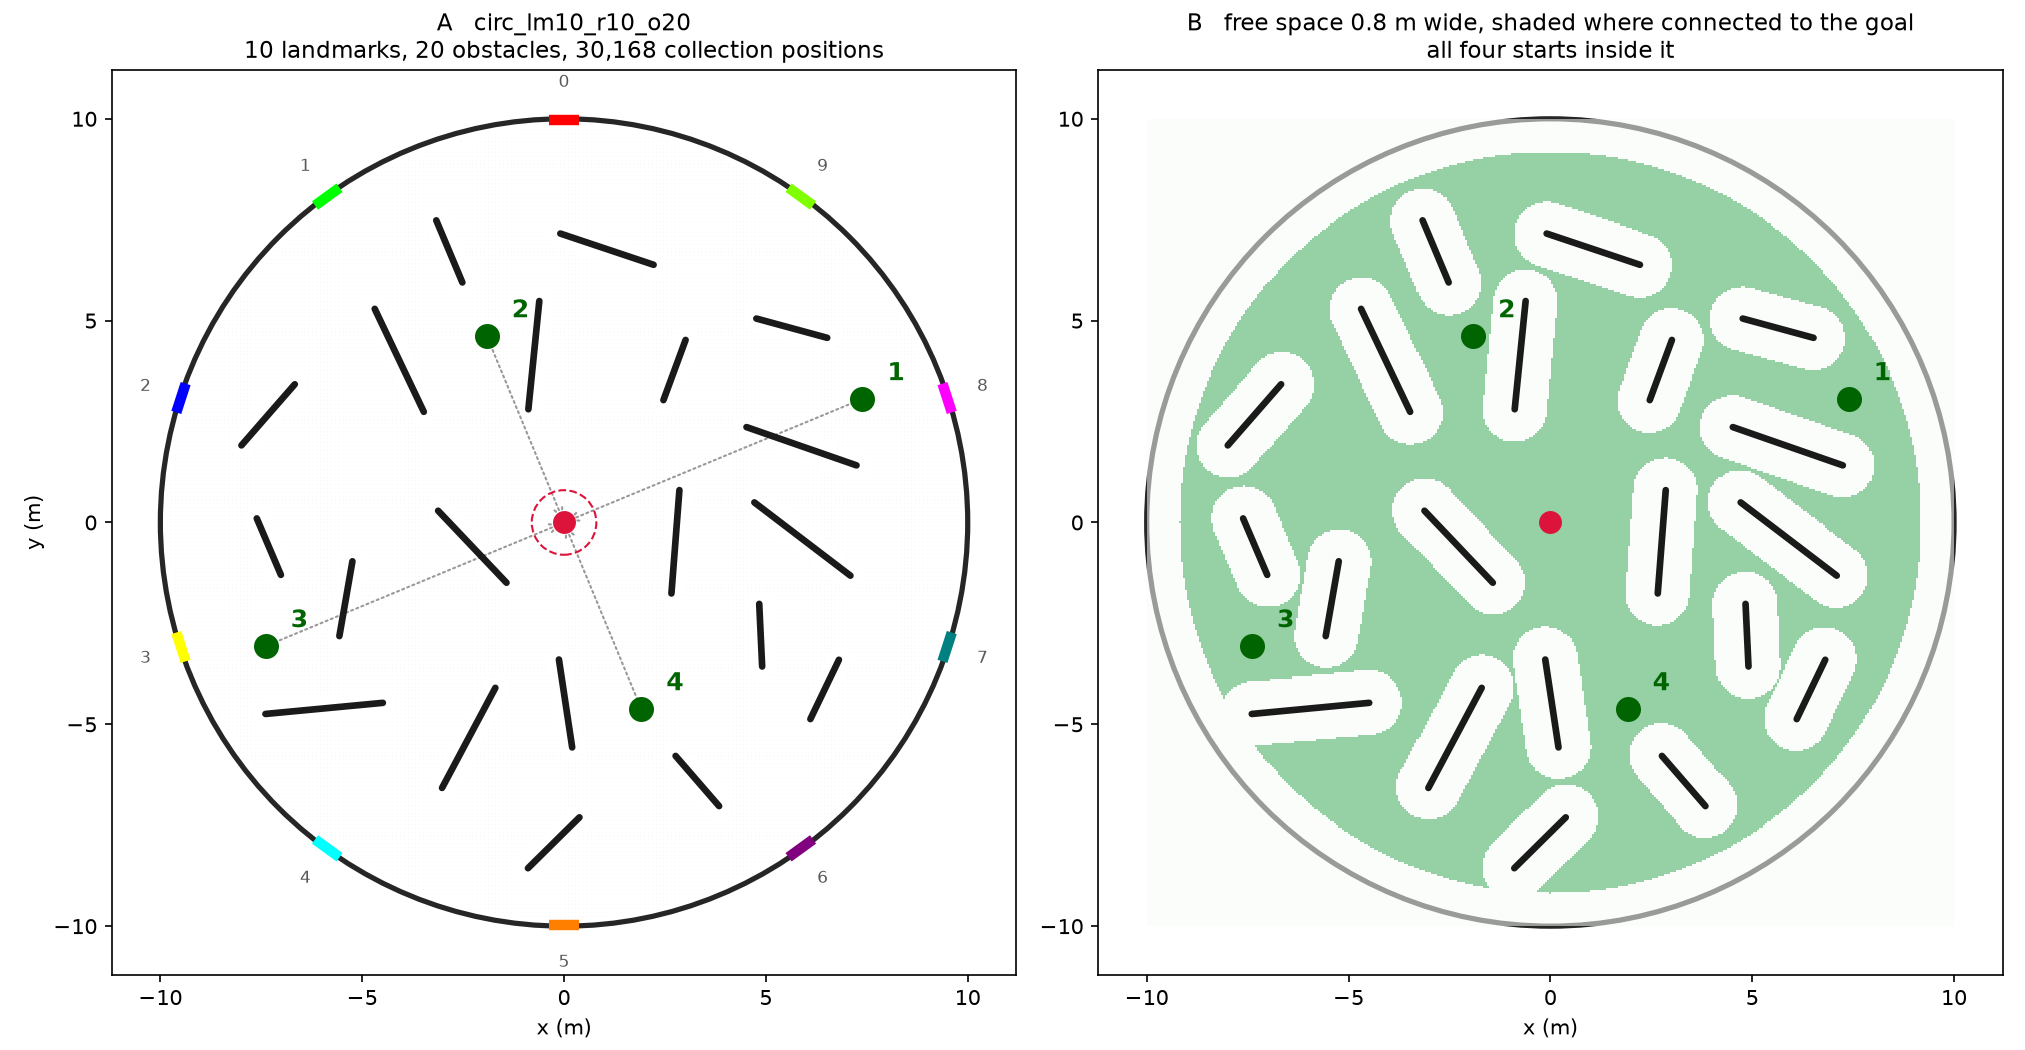
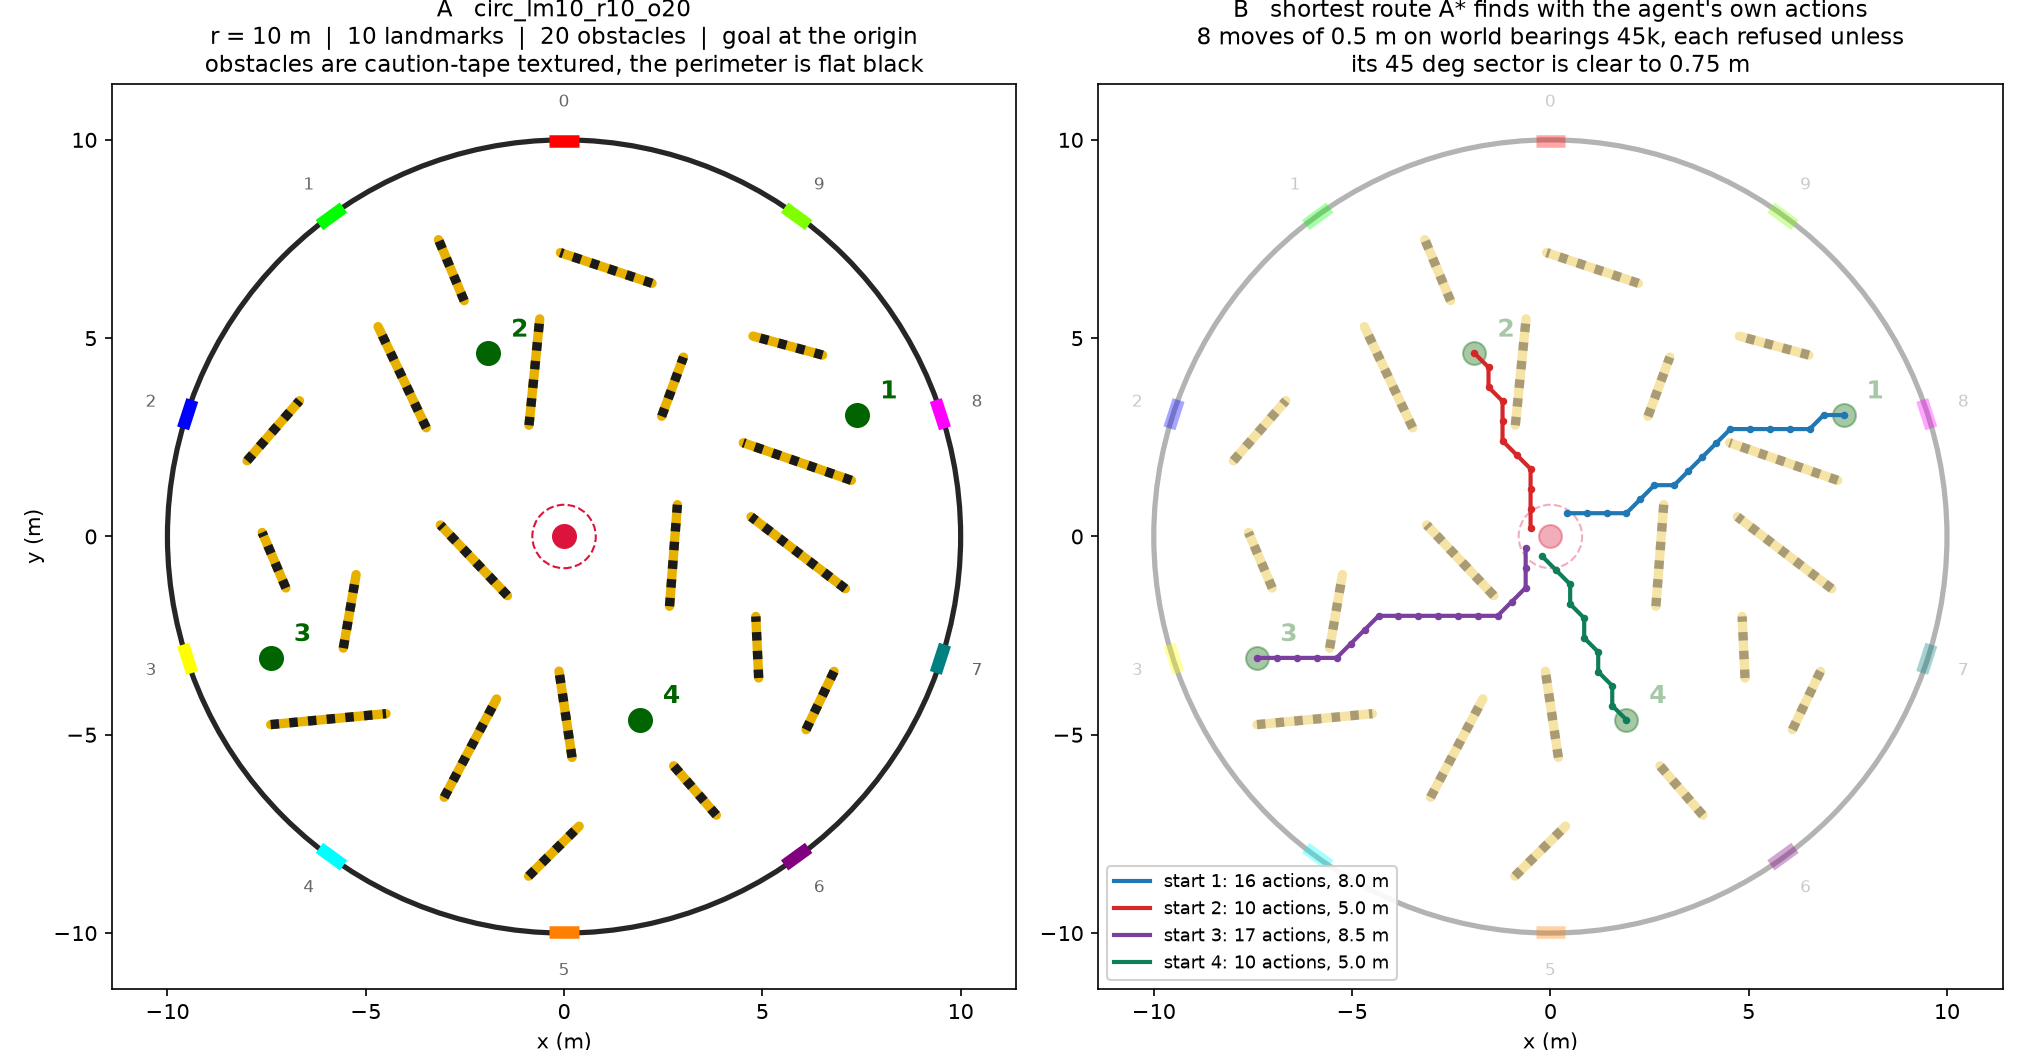
arena: caution tape on the obstacles, and A* over the real action set
Three changes to circ_lm10_r10_o20, none of which move an obstacle: the
layout and the position grid are byte-identical to the pushed ones.

OBSTACLES ARE TEXTURED with caution_tape.jpg; the perimeter stays flat
black. They are different kinds of thing -- one bounds the arena, the other
furnishes it -- and the agent sees through a camera, so telling them apart
is a distinction the representation can actually use. The wall PROTO already
took a texture URL; nothing but the XML changed.

THE FIGURE is down to what it is about. Panel A is the arena and only the
arena: wall, obstacles, landmarks, goal, starts. The 30k collection
positions, the dotted start-to-goal lines and the flood-fill shading are
gone -- the fill was a proof, and a proof belongs in the acceptance check
rather than in the picture.

PANEL B IS A*, over the agent's actions rather than over free space. The
difference is not cosmetic. The mask is a SECTOR test: get_possible_actions
refuses action k when anything lies within 0.75 m in the 45-degree wedge on
bearing 45k, so a robot 0.3 m from an obstacle still moves freely in six
directions, which a clearance test would call blocked outright. Searching
over clearance finds routes the agent cannot take and misses routes it can.
Nodes are exact positions reached by summing whole actions, so every point
on a drawn route is one the agent could stand on; only the visited set is
discretised, at 5 cm, because the eight bearings generate a set dense in the
[…]

diff --git a/simulation/worlds/environments/vpce-rl/make_rl_env.py b/simulation/worlds/environments/vpce-rl/make_rl_env.py
@@ -76,7 +76,12 @@ N_TARGET    = 30147     # positions per arena, held constant
 # the camera at 0.188 m, both well under 0.5 m.
 OBS_H       = 0.5
 OBS_W       = 0.012
-OBS_RGB     = (0.0, 0.0, 0.0)
+# Obstacles are textured, the perimeter is flat black. They are different
+# kinds of thing -- one bounds the arena, the other furnishes it -- and the
+# agent sees through a camera, so telling them apart is something the
+# representation can actually learn from. The wall PROTO takes a texture URL
+# relative to the world file, as the landmark flags do.
+OBS_TEXTURE = '../protos/world_objects/textures/wall_textures/caution_tape.jpg'
 OBS_LEN     = (1.5, 3.0)    # segment length range, m
 OBS_MARGIN  = 0.3           # collection keep-out from an obstacle, m
 
@@ -335,13 +340,14 @@ def write_xml(segs, start_xy, path):
         f'         orientations, centres uniform over the disc. Every pair is at\n'
         f'         least {GAP} m apart and every tip at least {WALL_GAP} m from the wall,\n'
         f'         so no two of them form a gap narrower than the {CLEAR} m the action\n'
-        f'         mask needs to enter it. -->\n')
+        f'         mask needs to enter it. They are textured rather than flat black,\n'
+        f'         so the camera can tell furniture from the perimeter. -->\n')
     for s in segs:
         lines.append(
             f'    <wall x1="{fmt(s[0],4)}" y1="{fmt(s[1],4)}" '
             f'x2="{fmt(s[2],4)}" y2="{fmt(s[3],4)}"\n'
-            f'          height="{OBS_H}" width="{OBS_W}" '
-            f'red="{OBS_RGB[0]:.2f}" green="{OBS_RGB[1]:.2f}" blue="{OBS_RGB[2]:.2f}"/>\n')
+            f'          height="{OBS_H}" width="{OBS_W}"\n'
+            f'          texture="{OBS_TEXTURE}"/>\n')
 
     lines.append(
         '\n    <!-- Four starts at 22.5 + 90k degrees, alternating r = 8 and r = 5 so\n'
@@ -406,70 +412,217 @@ def write_positions(segs, path):
     return (xs, ys), spacing, free_area
 
 
-def plot(segs, start_xy, comp, xs, ys, grid_xy, path):
-    import matplotlib
-    matplotlib.use('Agg')
-    import matplotlib.pyplot as plt
+
+# --------------------------------------------------------------------- A*
+
+# The agent's action set, as MyRobot defines it: action k moves one action
+# length along WORLD bearing 45k. Allocentric, so the bearings do not depend
+# on which way the robot faces.
+ACTION_LENGTH  = 0.5
+N_ACTIONS      = 8
+ACTION_BEARING = np.arange(N_ACTIONS) * (2 * np.pi / N_ACTIONS)
+# get_possible_actions refuses an action unless the whole 45-degree sector
+# ahead of it is clear to action_length + 0.25.
+MASK_RANGE     = ACTION_LENGTH + 0.25
+KEY_RES        = 0.05       # two positions this close are one search node
+
+
+def blocked_field(segs):
+    """blocked[k, i, j]: action k refused by the lidar mask at that cell.
+
+    This reimplements get_possible_actions rather than testing clearance,
+    because the two differ in a way that changes the answer. The mask is a
+    SECTOR test: action k is refused when anything lies within 0.75 m inside
+    the 45-degree wedge centred on bearing 45k. So a robot 0.3 m from an
+    obstacle still moves freely in six directions, which a clearance test
+    would call blocked outright. Searching over clearance would find routes
+    the agent cannot take and miss routes it can.
+    """
+    n = int(np.ceil(2 * RADIUS / RES)) + 1
+    xs = np.linspace(-RADIUS, RADIUS, n)
+    ys = np.linspace(-RADIUS, RADIUS, n)
+    blocked = np.zeros((N_ACTIONS, n, n), dtype=bool)
+
+    # Everything the lidar would return a range for: obstacles and perimeter.
+    pts = []
+    for sg in segs:
+        length = float(np.hypot(sg[2] - sg[0], sg[3] - sg[1]))
+        t = np.linspace(0.0, 1.0, max(2, int(length / 0.02)))
+        pts.append(np.stack([sg[0] + t * (sg[2] - sg[0]),
+                             sg[1] + t * (sg[3] - sg[1])], axis=1))
+    wt = np.linspace(0.0, 2 * np.pi, int(2 * np.pi * RADIUS / 0.02),
+                     endpoint=False)
+    pts.append(np.stack([RADIUS * np.cos(wt), RADIUS * np.sin(wt)], axis=1))
+    pts = np.concatenate(pts)
+
+    half = int(np.ceil(MASK_RANGE / RES))
+    for px, py in pts:
+        ci = int(round((px + RADIUS) / RES))
+        cj = int(round((py + RADIUS) / RES))
+        i0, i1 = max(0, ci - half), min(n, ci + half + 1)
+        j0, j1 = max(0, cj - half), min(n, cj + half + 1)
+        if i0 >= i1 or j0 >= j1:
+            continue
+        dx = px - xs[i0:i1][:, None]
+        dy = py - ys[j0:j1][None, :]
+        within = (dx * dx + dy * dy) <= MASK_RANGE ** 2
+        if not within.any():
+            continue
+        # Which 45-degree bin the obstacle point falls in, seen from the cell.
+        k = np.rint(np.arctan2(dy, dx) / (2 * np.pi / N_ACTIONS))
+        k = (k.astype(int) % N_ACTIONS) * np.ones_like(within, dtype=int)
+        for a in range(N_ACTIONS):
+            sel = within & (k == a)
+            if sel.any():
+                blocked[a, i0:i1, j0:j1] |= sel
+    return blocked, xs, ys
+
+
+def astar(start, blocked, goal=GOAL, cap=400_000):
+    """Fewest of the agent's own actions from start to the goal.
+
+    Nodes are exact positions, reached by summing whole actions, so every
+    point on the returned path is one the agent could actually stand on.
+    Only the visited set is discretised, at KEY_RES: the 8 action bearings
+    generate a set that is dense in the plane, so without that the search
+    would never close. Two positions within 5 cm are treated as the same
+    state, which can cost a step of optimality and cannot produce a route
+    the agent could not walk.
+
+    Returns the list of positions, or None if the goal is unreachable.
+    """
+    import heapq
+    n = blocked.shape[1]
+
+    def ij(x, y):
+        return (min(max(int(round((x + RADIUS) / RES)), 0), n - 1),
+                min(max(int(round((y + RADIUS) / RES)), 0), n - 1))
+
+    def key(x, y):
+        return (int(round(x / KEY_RES)), int(round(y / KEY_RES)))
+
+    def h(x, y):
+        return max(0.0, float(np.hypot(x - goal[0], y - goal[1])) - GOAL_R)
+
+    sx, sy = float(start[0]), float(start[1])
+    k0 = key(sx, sy)
+    pos = {k0: (sx, sy)}
+    came = {k0: None}
+    best = {k0: 0.0}
+    pq = [(h(sx, sy), 0.0, k0)]
+    seen = 0
+    while pq:
+        _f, g, k = heapq.heappop(pq)
+        if g > best.get(k, np.inf):
+            continue
+        x, y = pos[k]
+        if np.hypot(x - goal[0], y - goal[1]) < GOAL_R:
+            out = []
+            while k is not None:
+                out.append(pos[k])
+                k = came[k]
+            return out[::-1]
+        seen += 1
+        if seen > cap:
+            return None
+        i, j = ij(x, y)
+        for a in range(N_ACTIONS):
+            if blocked[a, i, j]:
+                continue
+            nx = x + ACTION_LENGTH * np.cos(ACTION_BEARING[a])
+            ny = y + ACTION_LENGTH * np.sin(ACTION_BEARING[a])
+            if np.hypot(nx, ny) > RADIUS:
+                continue
+            nk = key(nx, ny)
+            ng = g + ACTION_LENGTH
+            if ng < best.get(nk, np.inf) - 1e-9:
+                best[nk] = ng
+                pos[nk] = (float(nx), float(ny))
+                came[nk] = k
+                heapq.heappush(pq, (ng + h(nx, ny), ng, nk))
+    return None
+
+
+def _draw_arena(ax, segs, start_xy, faint=False):
+    """Walls, obstacles, landmarks, goal, starts. Nothing else."""
     from matplotlib.patches import Circle
+    alpha = 0.35 if faint else 1.0
 
-    fig, (ax1, ax2) = plt.subplots(1, 2, figsize=(13.5, 7))
+    ax.add_patch(Circle((0, 0), RADIUS, fill=False, lw=2.5, color='0.15',
+                        alpha=alpha, zorder=2))
 
-    for ax in (ax1, ax2):
-        ax.add_patch(Circle((0, 0), RADIUS, fill=False, lw=2.5, color='0.15'))
-        ax.set_aspect('equal')
-        ax.set_xlim(-RADIUS - 1.2, RADIUS + 1.2)
-        ax.set_ylim(-RADIUS - 1.2, RADIUS + 1.2)
-        ax.set_xticks(range(-10, 11, 5))
-        ax.set_yticks(range(-10, 11, 5))
-        ax.set_xlabel('x (m)')
+    # Obstacles, drawn as the caution tape they are textured with, so they
+    # read as a different kind of surface from the perimeter at a glance.
+    for sg in segs:
+        ax.plot([sg[0], sg[2]], [sg[1], sg[3]], lw=4.5, color='#e8b100',
+                solid_capstyle='round', alpha=alpha, zorder=3)
+        ax.plot([sg[0], sg[2]], [sg[1], sg[3]], lw=4.5, color='0.1',
+                solid_capstyle='butt', alpha=alpha, zorder=4,
+                dashes=(0.9, 1.1))
 
-    # --- A: the arena
-    gx, gy = grid_xy
-    ax1.scatter(gx, gy, s=0.12, c='0.86', marker='.', linewidths=0, zorder=0)
     r_mount = wall_mount_radius(RADIUS)
     for k, a in enumerate(landmark_angles(N_LANDMARKS)):
         x, y = r_mount * np.cos(a), r_mount * np.sin(a)
-        ax1.plot([x - PANEL / 2 * np.sin(a) * -1, x + PANEL / 2 * np.sin(a) * -1],
-                 [y - PANEL / 2 * np.cos(a), y + PANEL / 2 * np.cos(a)],
-                 lw=5, color=COLORS[k], solid_capstyle='butt', zorder=4)
-        ax1.text(10.9 * np.cos(a), 10.9 * np.sin(a), str(k), fontsize=8,
-                 ha='center', va='center', color='0.35')
-    for s in segs:
-        ax1.plot([s[0], s[2]], [s[1], s[3]], lw=3.2, color='0.1',
-                 solid_capstyle='round', zorder=3)
-    ax1.add_patch(Circle(GOAL, GOAL_R, fill=False, lw=1.0, ls='--',
-                         color='crimson', zorder=5))
-    ax1.plot(*GOAL, 'o', ms=10, color='crimson', zorder=6)
-    for i, (x, y, th) in enumerate(start_xy, start=1):
-        ax1.plot(x, y, 'o', ms=11, color='darkgreen', zorder=6)
-        ax1.annotate(str(i), (x, y), textcoords='offset points',
-                     xytext=(12, 9), fontsize=12, fontweight='bold',
-                     color='darkgreen')
-        ax1.annotate('', xy=GOAL, xytext=(x, y), zorder=2,
-                     arrowprops=dict(arrowstyle='->', color='0.6',
-                                     lw=1.0, ls=':'))
-    ax1.set_title(f'A   {NAME}\n{N_LANDMARKS} landmarks, {N_OBSTACLES} obstacles, '
-                  f'{len(gx):,} collection positions', fontsize=11)
+        tx, ty = -np.sin(a), np.cos(a)
+        ax.plot([x - PANEL / 2 * tx, x + PANEL / 2 * tx],
+                [y - PANEL / 2 * ty, y + PANEL / 2 * ty],
+                lw=6, color=COLORS[k], solid_capstyle='butt',
+                alpha=alpha, zorder=5)
+        ax.text(10.95 * np.cos(a), 10.95 * np.sin(a), str(k), fontsize=8,
+                ha='center', va='center', color='0.4', alpha=alpha)
+
+    ax.add_patch(Circle(GOAL, GOAL_R, fill=False, lw=1.0, ls='--',
+                        color='crimson', alpha=alpha, zorder=6))
+    ax.plot(*GOAL, 'o', ms=11, color='crimson', alpha=alpha, zorder=7)
+    for i, (x, y, _th) in enumerate(start_xy, start=1):
+        ax.plot(x, y, 'o', ms=11, color='darkgreen', alpha=alpha, zorder=7)
+        ax.annotate(str(i), (x, y), textcoords='offset points',
+                    xytext=(11, 8), fontsize=12, fontweight='bold',
+                    color='darkgreen', alpha=alpha)
+
+    ax.set_aspect('equal')
+    ax.set_xlim(-RADIUS - 1.4, RADIUS + 1.4)
+    ax.set_ylim(-RADIUS - 1.4, RADIUS + 1.4)
+    ax.set_xticks(range(-10, 11, 5))
+    ax.set_yticks(range(-10, 11, 5))
+    ax.set_xlabel('x (m)')
+
+
+def plot(segs, start_xy, paths, path_png):
+    import matplotlib
+    matplotlib.use('Agg')
+    import matplotlib.pyplot as plt
+
+    fig, (ax1, ax2) = plt.subplots(1, 2, figsize=(13.5, 7))
+
+    _draw_arena(ax1, segs, start_xy)
+    ax1.set_title(f'A   {NAME}\n'
+                  f'r = {RADIUS:g} m  |  {N_LANDMARKS} landmarks  |  '
+                  f'{N_OBSTACLES} obstacles  |  goal at the origin\n'
+                  f'obstacles are caution-tape textured, the perimeter is '
+                  f'flat black', fontsize=11)
     ax1.set_ylabel('y (m)')
 
-    # --- B: the reachability proof
-    ax2.imshow(comp.T, origin='lower', cmap='Greens', alpha=0.55,
-               extent=[xs[0], xs[-1], ys[0], ys[-1]], vmin=0, vmax=1.6,
-               interpolation='nearest', zorder=1)
-    for s in segs:
-        ax2.plot([s[0], s[2]], [s[1], s[3]], lw=3.2, color='0.1',
-                 solid_capstyle='round', zorder=3)
-    ax2.plot(*GOAL, 'o', ms=10, color='crimson', zorder=6)
-    for i, (x, y, th) in enumerate(start_xy, start=1):
-        ax2.plot(x, y, 'o', ms=11, color='darkgreen', zorder=6)
-        ax2.annotate(str(i), (x, y), textcoords='offset points',
-                     xytext=(12, 9), fontsize=12, fontweight='bold',
-                     color='darkgreen')
-    ax2.set_title(f'B   free space {CLEAR} m wide, shaded where connected '
-                  f'to the goal\nall four starts inside it', fontsize=11)
+    _draw_arena(ax2, segs, start_xy, faint=True)
+    route = ['#1f77b4', '#d62728', '#7b3fa0', '#0d7d5a']
+    for i, path in enumerate(paths):
+        if path is None:
+            continue
+        px = [p[0] for p in path]
+        py = [p[1] for p in path]
+        ax2.plot(px, py, '-', lw=2.0, color=route[i % len(route)], zorder=9,
+                 label=f'start {i + 1}: {len(path) - 1} actions, '
+                       f'{(len(path) - 1) * ACTION_LENGTH:.1f} m')
+        ax2.plot(px, py, 'o', ms=2.6, color=route[i % len(route)], zorder=10)
+    ax2.legend(loc='lower left', fontsize=8.5, framealpha=0.9)
+    ax2.set_title('B   shortest route A* finds with the agent\'s own actions\n'
+                  f'{N_ACTIONS} moves of {ACTION_LENGTH} m on world bearings '
+                  f'45k, each refused unless\n'
+                  f'its 45 deg sector is clear to {MASK_RANGE} m',
+                  fontsize=11)
 
     fig.tight_layout()
-    fig.savefig(path, dpi=150)
+    fig.savefig(path_png, dpi=150)
     plt.close(fig)
 
 
@@ -481,9 +634,20 @@ def main():
         if segs is None:
             continue
         got = check_layout(segs, start_xy)
-        if got is not None:
-            free, comp, xs, ys = got
+        if got is None:
+            continue
+        free, comp, xs, ys = got
+        # The flood fill says a corridor exists; A* over the real action set
+        # says the agent can actually take it. The mask refuses a direction
+        # on a whole 45-degree sector, so a passage wide enough to stand in
+        # is not always one the agent will enter. A layout that survives the
+        # fill but not the search is rejected like any other.
+        blocked, _bxs, _bys = blocked_field(segs)
+        paths = [astar(p[:2], blocked) for p in start_xy]
+        if all(p is not None for p in paths):
             break
+        print(f'  attempt {attempt}: flood fill passed but A* found no route '
+              f'from {sum(p is None for p in paths)} start(s); resampling')
     else:
         raise SystemExit('no layout passed the reachability check; '
                          'lower N_OBSTACLES or CLEAR')
@@ -495,29 +659,34 @@ def main():
     write_xml(segs, start_xy, xml_path)
     grid_xy, spacing, free_area = write_positions(segs, csv_path)
     npts = len(grid_xy[0])
-    plot(segs, start_xy, comp, xs, ys, grid_xy, png_path)
+    plot(segs, start_xy, paths, png_path)
 
     gap = min(seg_seg_dist(segs[i], segs[j])
               for i in range(len(segs)) for j in range(i + 1, len(segs)))
     reach = 100.0 * comp.sum() / max(1, free.sum())
+    mean_len = float(np.mean(np.hypot(segs[:, 2] - segs[:, 0],
+                                      segs[:, 3] - segs[:, 1])))
     print(f'{NAME}  seed {SEED}, accepted on attempt {attempt}')
-    print(f'  obstacles      : {len(segs)}, '
-          f'{segs.shape[0] and np.mean(np.hypot(segs[:,2]-segs[:,0], segs[:,3]-segs[:,1])):.2f} m mean length')
+    print(f'  obstacles      : {len(segs)}, {mean_len:.2f} m mean length')
     print(f'  closest pair   : {gap:.2f} m  (need {GAP:.2f})')
     print(f'  free space     : {free_area:.1f} m^2 of {np.pi*RADIUS**2:.1f}')
     print(f'  reachable      : {reach:.1f}% of the {CLEAR} m free space '
           f'is connected to the goal')
     print(f'  positions      : {npts:,} at {spacing:.4f} m spacing '
           f'(target {N_TARGET:,})')
-    dist = geodesic(free, xs, ys, GOAL)
-    print(f'  {"start":<14s} {"to goal":>8s} {"walkable":>9s} {"detour":>7s}  '
-          f'straight line')
-    for i, (x, y, _t) in enumerate(start_xy, start=1):
+    print(f'  {"start":<22s} {"direct":>7s} {"A* actions":>11s} '
+          f'{"A* walked":>10s} {"detour":>7s}  straight line')
+    for i, ((x, y, _t), path) in enumerate(zip(start_xy, paths), start=1):
         d = float(np.hypot(x - GOAL[0], y - GOAL[1]))
-        g = float(dist[cell(xs, ys, x, y)])
-        blocked = straight_blocked(x, y, segs)
-        print(f'  {i} ({x:7.4f},{y:7.4f}) {d:7.2f}m {g:8.2f}m {g/d:7.2f}  '
-              f'{"BLOCKED" if blocked else "clear"}')
+        steps = len(path) - 1
+        walked = steps * ACTION_LENGTH
+        blocked_line = straight_blocked(x, y, segs)
+        print(f'  {i} ({x:7.4f},{y:7.4f})     {d:7.2f}m {steps:11d} '
+              f'{walked:9.1f}m {walked/d:7.2f}  '
+              f'{"BLOCKED" if blocked_line else "clear"}')
+    worst = max(len(p) - 1 for p in paths)
+    print(f'  longest route is {worst} actions against the '
+          f'{int(os.environ.get("REALM_MAX_STEPS", 200))}-step episode cap')
     print(f'  -> {xml_path}')
     print(f'  -> {csv_path}')
     print(f'  -> {png_path}')
